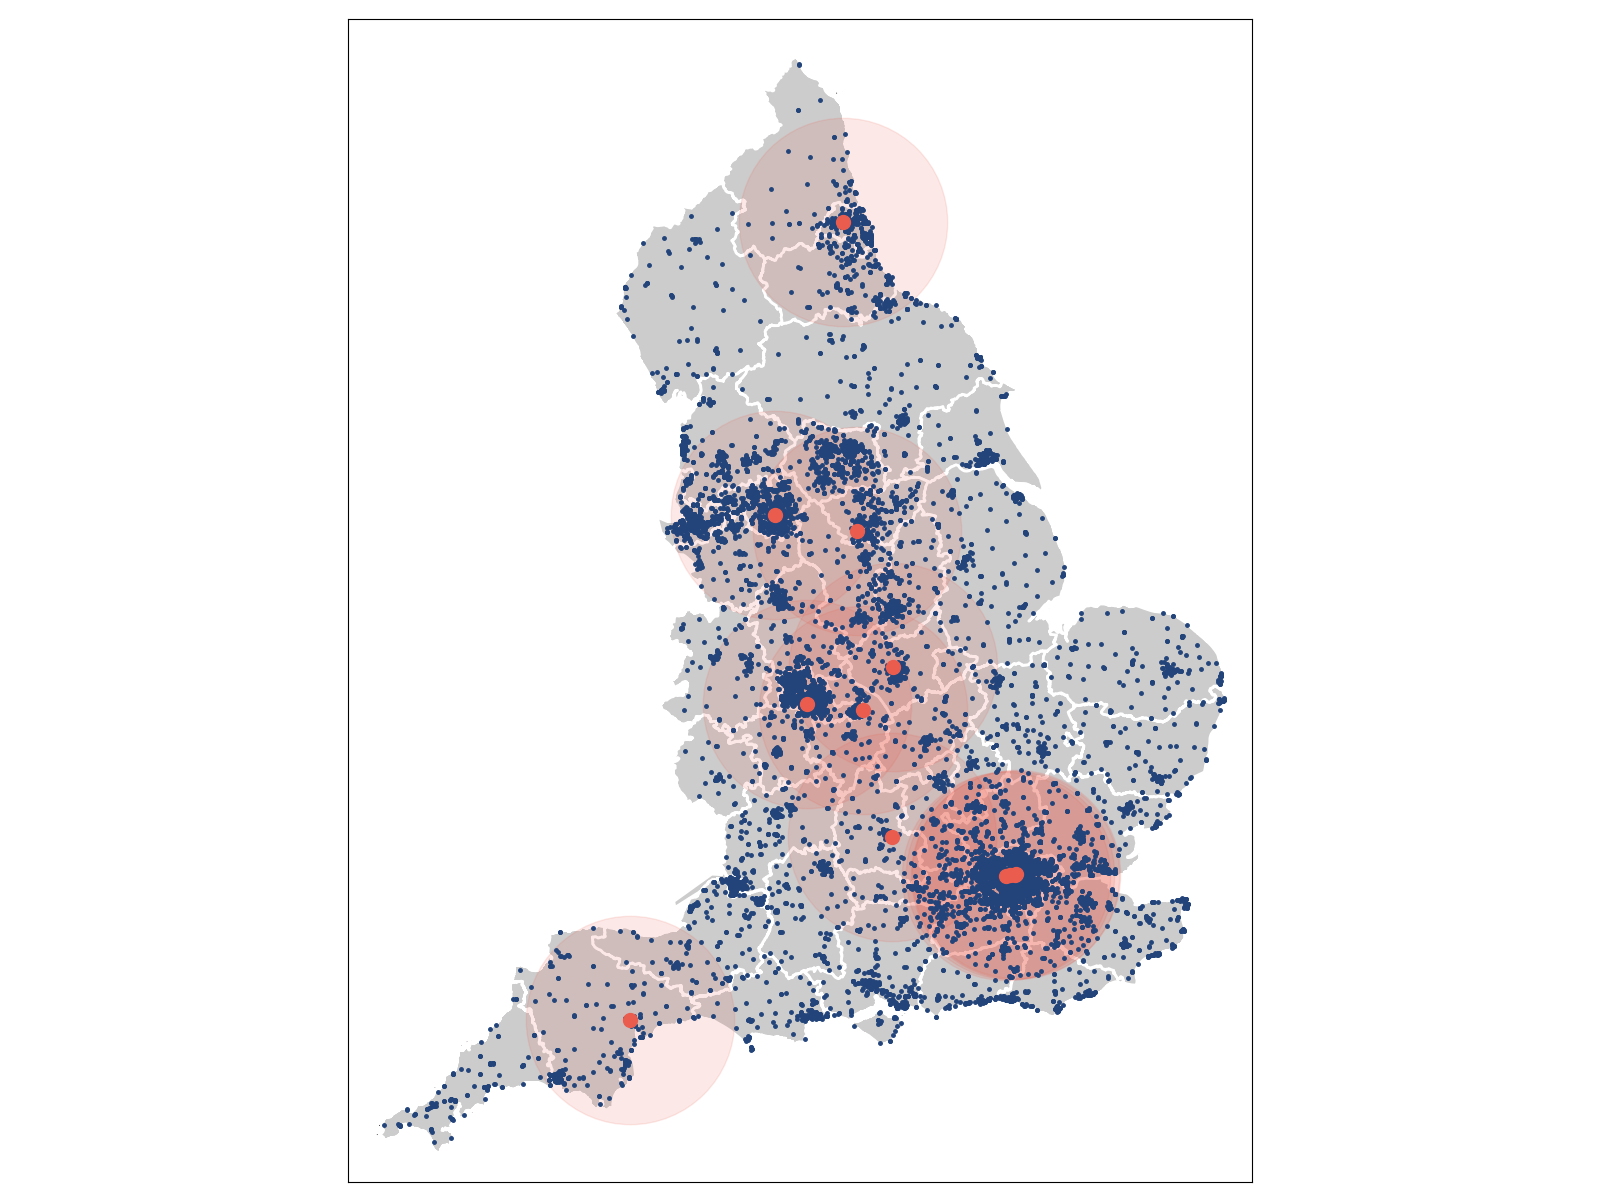
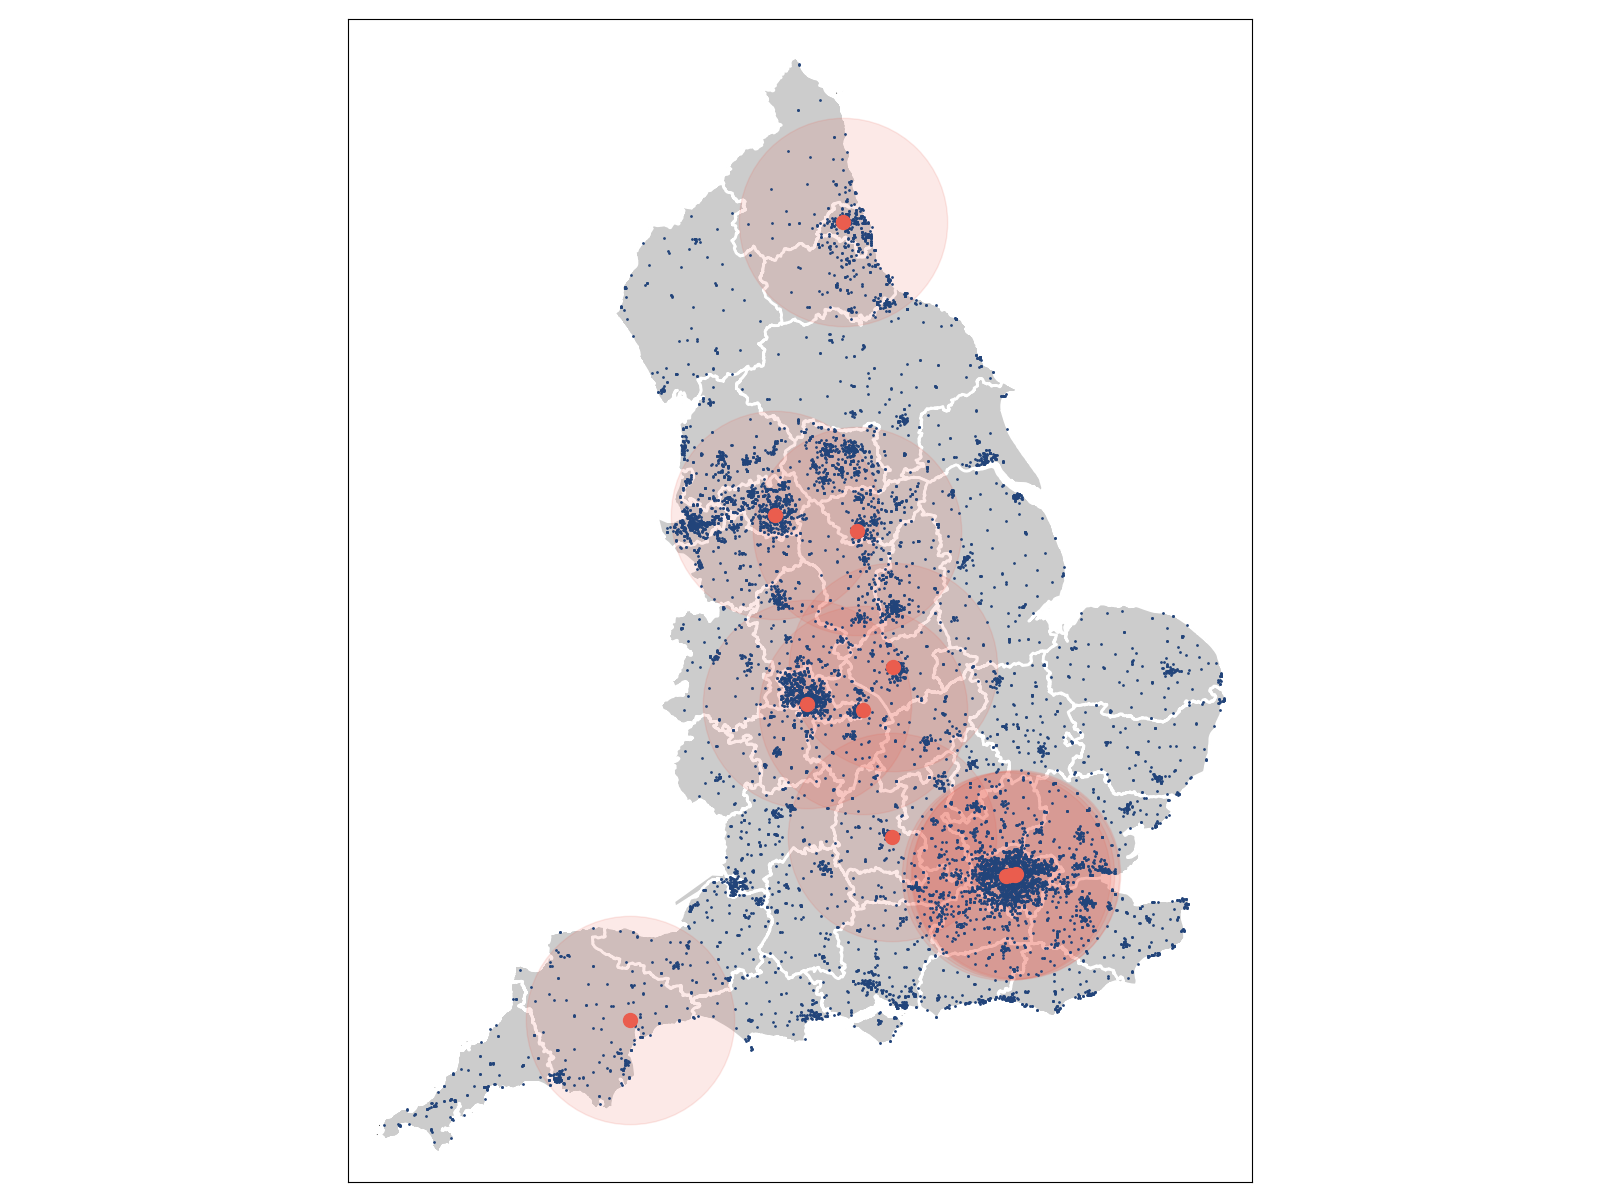
National GENVASC

diff --git a/national_potential.py b/national_potential.py
@@ -86,7 +86,7 @@ def print_map():
     x, y = map(practice['Longitude'], practice['Latitude'])
 
     if any(c.contains_points([[x,y]]) for c in counties):
-      map.plot(x, y, marker='.', color=PRACTICE_COLOR, markersize=5)
+      map.plot(x, y, marker='.', color=PRACTICE_COLOR, markersize=2)
 
   for index, brc in df_brcs.iterrows():
     x, y = map(brc['Longitude'], brc['Latitude'])
